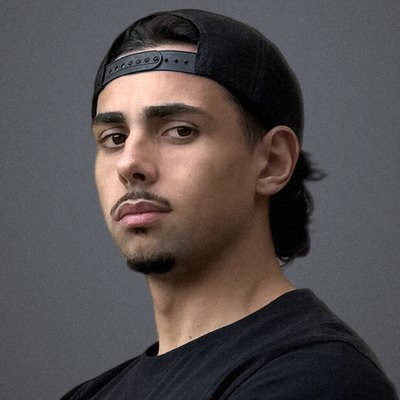
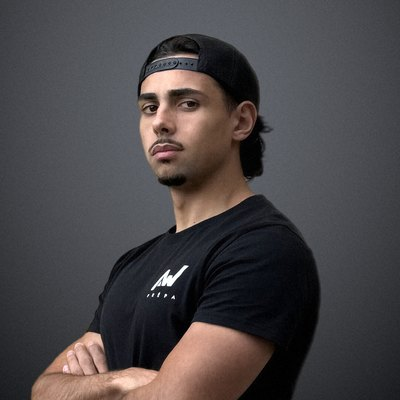
Messages client : photo d'Arthur moins zoomée (v0.117.2)

diff --git a/src/pages/client/MessagesClient.js b/src/pages/client/MessagesClient.js
@@ -97,7 +97,7 @@ export default function MessagesClient() {
   return (
     <>
       <div ref={cadreRef} style={{ ...S.page, top: 0, bottom: 0, paddingBottom: NAV_H }}>
-        <EnTeteClient titre="Arthur" sousTitre="Ton coach" actions={<img loading="lazy" src="/coach-avatar.jpg" alt="Arthur" style={S.avatar} />} />
+        <EnTeteClient titre="Arthur" sousTitre="Ton coach" actions={<img loading="lazy" src="/coach-avatar.jpg?v=2" alt="Arthur" style={S.avatar} />} />
 
         {loadError ? (
           <div style={S.centre}>

diff --git a/src/version.js b/src/version.js
@@ -1,2 +1,2 @@
-const APP_VERSION = '0.117.1'
+const APP_VERSION = '0.117.2'
 export default APP_VERSION
